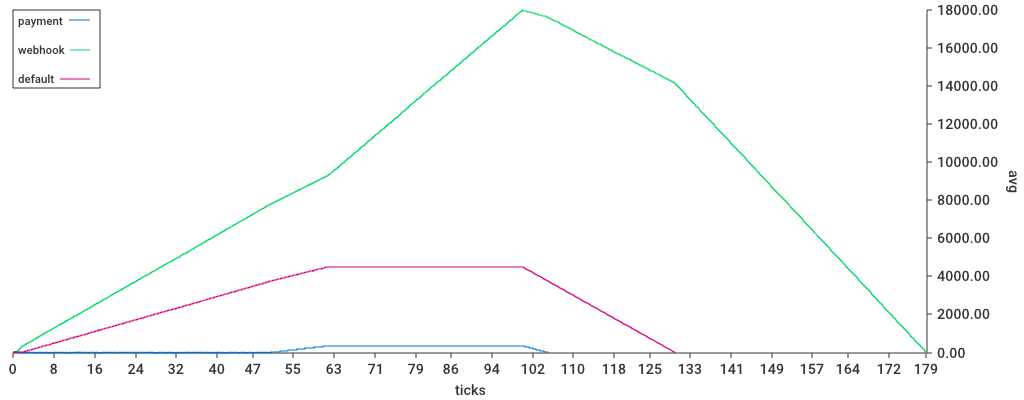
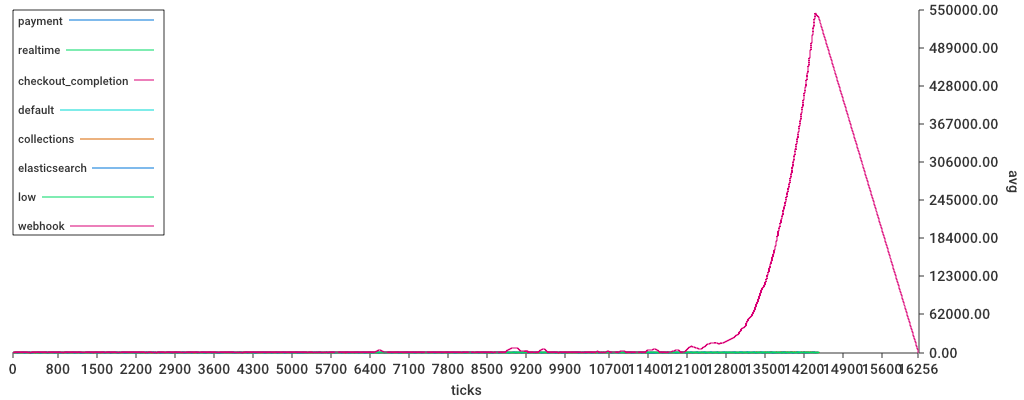
update with jobs worked graphs

diff --git a/main.go b/main.go
@@ -64,6 +64,7 @@ func dequeueNextJob() *Job{
 		if q.Length() <=0{
 			continue
 		}
+		return q.Pop()
 		if q.PeekPriority() <=currentTime{
 			return q.Pop()
 		}
@@ -189,13 +190,14 @@ func startWorker( worker *Worker ){
 
 }
 var minuteEnqueueSchedule map[string][]int
-
+var orderedSloState []*jobSLOState
 func main(){
 	// parse csv
-	f,_ := os.Open("yeezy hour.csv")
+	f,_ := os.Open("fashinovaaug14.csv")
 	r:=csv.NewReader(f)
 	records,err := r.ReadAll()
 	if err != nil{
+
 		panic(err)
 	}
 	minuteEnqueueSchedule = make(map[string][]int)
@@ -219,17 +221,29 @@ func main(){
 	nextJobId = 0
 	totalJobsInScenario = 0
 	sloState=map[string]*jobSLOState	{
-		//"realtime":{slo:1000},
-		"payment":{slo:5000,name:"payment"},
-		"webhook":{slo:31000,name:"webhook"},
-		"default":{slo:30000,name:"default"},
-		//"low":{slo:900000},
-	//	"checkout_completion":{slo:5000},
+		"payment":{slo:500},
+		"webhook":{slo:60000},
+		"default":{slo:11000},
+		"low":{slo:59000},
+		"collections":{slo:12000},
+		"elasticsearch":{slo:13000},
+		"sales_model_priority":{slo:14000},
+		"checkout_completion":{slo:10000},
+		"realtime":{slo:1000},
+
+		/*"payment":{slo:1,name:"payment"},
+		"webhook":{slo:5,name:"webhook"},
+		"default":{slo:4,name:"default"},
+		"low":{slo:6,name:"low"},
+		"checkout_completion":{slo:3,name:"checkout_completion"},
+		"realtime":{slo:2,name:"realtime"},*/
+
 	}
 
 	// make sure queues are in slo order
-	var orderedSloState []*jobSLOState
+
 	for k,_ := range sloState{
+		sloState[k].name = k
 		orderedSloState = append(orderedSloState, sloState[k])
 	}
 	sort.Slice(orderedSloState, func(i,j int)bool{ return orderedSloState[i].slo < orderedSloState[j].slo })
@@ -246,16 +260,19 @@ func main(){
 	startWorkers(&jobQueue,300)
 
 
-	pushJobsRate( &jobQueue, "payment", 999, 70, 100000 )
-	pushJobsRate( &jobQueue, "default", 1020, 150, 100000 )
-	pushJobsRate( &jobQueue, "webhook", 1050, 300, 100000 )
+	//pushJobsRate( &jobQueue, "payment", 999, 70, 100000 )
+//	pushJobsRate( &jobQueue, "default", 1020, 150, 100000 )
+//	pushJobsRate( &jobQueue, "webhook", 1050, 300, 100000 )
 
-	//pushJobsOnSchedule( "payment" )
-	//pushJobsOnSchedule( "webhook" )
-	//pushJobsOnSchedule( "default")
-	//pushJobsOnSchedule( "low")
-	//pushJobsOnSchedule( "checkout_completion")
-	//pushJobsOnSchedule( "realtime")
+	pushJobsOnSchedule( "payment" )
+	pushJobsOnSchedule( "webhook" )
+	pushJobsOnSchedule( "default")
+	pushJobsOnSchedule( "low")
+	pushJobsOnSchedule( "checkout_completion")
+	pushJobsOnSchedule( "realtime")
+	pushJobsOnSchedule( "collections")
+	pushJobsOnSchedule( "elasticsearch")
+	pushJobsOnSchedule( "sales_model_priority")
 
 	simulateUntilJobsdone()
 	summary()
@@ -266,10 +283,12 @@ func summary(){
 	log("completed jobs",completedJobs.Length())
 	queueTimes := make(map [string]*timeStats)
 	queueSizes := make(map[string]*timeStats)
+	jobsWorkedCount := make(map[string]*timeStats)
 	// create empty timeStats for each job type
 	for k,_ := range sloState{
 		queueTimes[k] = &timeStats{}
 		queueSizes[k] = &timeStats{}
+		jobsWorkedCount[k] = &timeStats{}
 	}
 
 	job:= completedJobs.Pop()
@@ -278,13 +297,16 @@ func summary(){
 		queueTimes[job.JobType].add(queueTime, job.DequeueTime)
 		queueSizes[job.JobType].add(+1, job.EnqueueTime)
 		queueSizes[job.JobType].add(-1,job.DequeueTime)
+		jobsWorkedCount[job.JobType].add(1, job.DequeueTime)
 
 		job= completedJobs.Pop()
 	}
 
-	var qSizeChartData,qPriorities,qTimeSeries []chart.Series
+	var qSizeChartData,qCounts,qTimeSeries []chart.Series
 
-	for k,v := range queueTimes {
+	for i := range orderedSloState {
+		k:= orderedSloState[i].name
+		v:= queueTimes[k]
 		/*if k!= "payment"{
 			continue
 		}*/
@@ -300,8 +322,15 @@ func summary(){
 			y[i] += y[i-1]
 		}
 		qSizeChartData = append(qSizeChartData,createSeries(x,y,k))
-		x,y = sloState[k].priorityStats.orderedBucketsAvg()
-		qPriorities = append ( qPriorities, createSeries(x,y,k))
+		/*x,y = sloState[k].priorityStats.orderedBucketsAvg()
+		qPriorities = append ( qPriorities, createSeries(x,y,k))*/
+
+		x,y = jobsWorkedCount[k].orderedBucketsSum()
+		// cumulative sum
+		for i:=1; i < len(y); i++ {
+			y[i] += y[i-1]
+		}
+		qCounts = append( qCounts, createSeries(x,y,k))
 
 		x,y = v.orderedBucketsAvg()
 		qTimeSeries = append( qTimeSeries, createSeries(x,y,k))
@@ -311,7 +340,7 @@ func summary(){
 
 	}
 	graph(qSizeChartData,"queueSizes")
-//	graph(qPriorities,"queuePriorities")
+	graph(qCounts,"jobsWorked")
 	graph(qTimeSeries, "wait times")
 
 
